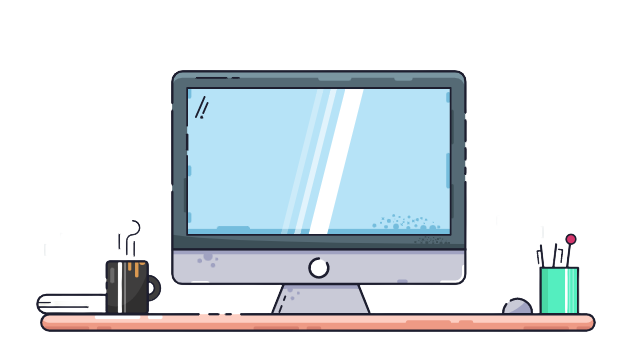
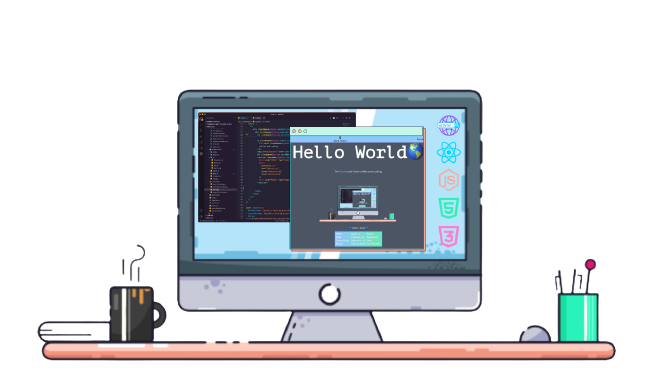
change cover picture, start on adding blog section

Changed region(s): [[0.0303, 0.2023, 0.9682, 0.9827]]

diff --git a/src/Components/Blogs/BlogItem.js b/src/Components/Blogs/BlogItem.js
@@ -1,0 +1,35 @@
+import React from 'react';
+
+const BlogItem = ({ src, title, description }) => {
+  return (
+    <>
+      <div className={styles.mainContainer}>
+        <div className={styles.flexBox}>
+          <div className={styles.cardBox}>
+            <div className={styles.cardInner}>
+              <div className={styles.centerDiv}>
+                <img className={styles.blogImage} src={src} alt="pic" />
+                <h1 className={styles.blogName}>{title}</h1>
+                <p className={styles.blogDescription}>{description}</p>
+              </div>
+            </div>
+          </div>
+        </div>
+      </div>
+    </>
+  );
+};
+
+const styles = {
+  mainContainer: 'container px-5 py-10 mx-auto',
+  cardBox:
+    'flex flex-wrap text-black text-center bg-gradient-to-r from-yellow-300 to-pink-300  px-5 py-5 m-2 rounded border-2 border-black ring-2 ring-yellow-300 dark:ring-pink-400',
+  flexBox: 'flex flex-wrap -m-2',
+  cardInner: 'lg:flex lg:items-center',
+  centerDiv: 'flex flex-wrap justify-center',
+  blogImage: 'h-90 rounded w-full object-cover object-center mb-6',
+  blogName:
+    'font-extrabold text-black font-Pt text-3xl m-2 lg:grid-row-2 text-gray-900 dark:text-white',
+};
+
+export default BlogItem;

diff --git a/src/Components/Blogs/Blogs.js b/src/Components/Blogs/Blogs.js
@@ -1,0 +1,40 @@
+import React from 'react';
+import { blogArray } from './blogData';
+import BlogItem from './BlogItem';
+
+const Blogs = () => {
+  return (
+    <div className={styles.backgroundDiv}>
+      <section className={styles.centerDiv}>
+        <div className={styles.textDiv}>
+          <h1 className={styles.blogTitle}>Here are some of my blogs:</h1>
+          <div className={styles.imageCenter}></div>
+
+          <div class="m-3">
+            {blogArray.map(({ id, src, title, description }) => (
+              <BlogItem
+                key={id}
+                src={src}
+                title={title}
+                description={description}
+              />
+            ))}
+          </div>
+        </div>
+      </section>
+    </div>
+  );
+};
+
+const styles = {
+  backgroundDiv: 'bg-white dark:bg-gray-600',
+  centerDiv:
+    'max-w-6xl mx-auto px-4 sm:px-6 lg:px-4 py-12 bg-white dark:bg-gray-600',
+  textDiv: 'text-center pb-12',
+  blogTitle:
+    'font-bold text-3xl md:text-4xl lg:text-5xl font-heading text-gray-900 dark:text-white font-Poppins',
+  imageCenter: 'flex justify-center',
+  blogImage: 'object-center h-60',
+};
+
+export default Blogs;

diff --git a/src/App.js b/src/App.js
@@ -6,6 +6,7 @@ import Home from './containers/home';
 import ProjectContainer from './containers/projectContainer';
 import AboutContainer from './containers/aboutContainer';
 import ContactContainer from './containers/contactContainer';
+import BlogContainer from './containers/blogContainer';
 import Footer from './Components/UI/Footer';
 import { useTheme } from './darkMode/hooks/useTheme';
 import useThemeStore from './darkMode/stores/useThemeStore';
@@ -46,6 +47,7 @@ function App() {
           <Route exact path="/projects" element={<ProjectContainer />} />
           <Route exact path="/about" element={<AboutContainer />} />
           <Route exact path="/contact" element={<ContactContainer />} />
+          {/* <Route exact path="/blog" element={<BlogContainer />} /> */}
         </Routes>
         <Footer />
       </BrowserRouter>

diff --git a/src/Components/UI/Dropdown.js b/src/Components/UI/Dropdown.js
@@ -23,6 +23,9 @@ const Dropdown = ({ isOpen, toggle }) => {
       <Link className={styles.contactTab} to="/contact">
         Contact
       </Link>
+      {/* <Link className={styles.blogTab} to="/blog">
+        Blog
+      </Link> */}
     </div>
   );
 };
@@ -35,6 +38,8 @@ const styles = {
   resumeTab:
     'p-4 hover:bg-blue-300 dark:hover:bg-blue-300 dark:hover:text-black bg-white dark:bg-gray-500 dark:text-white font-Pt',
   contactTab:
+    'p-4 hover:bg-green-300 dark:hover:bg-green-300 dark:hover:text-black bg-white dark:bg-gray-500 dark:text-white font-Pt',
+  blogTab:
     'p-4 hover:bg-green-300 dark:hover:bg-green-300 dark:hover:text-black bg-white dark:bg-gray-500 dark:text-white font-Pt',
 };
 

diff --git a/src/containers/home.js b/src/containers/home.js
@@ -23,9 +23,12 @@ const Home = () => {
           <h1 className={styles.title}>Hello World🌎</h1>
 
           <p className={styles.subtitle}>
-            I'm <span className={styles.nicoleColor}>Nicole</span> and I love
-            coffee and coding.
+            I'm <span className={styles.nicoleColor}>Nicole</span>. It's so nice
+            to meet you!
           </p>
+
+          {/* <p className={styles.subtitle}>Check Out My Blog:</p>
+          <a href="https://nicsquicktips.hashnode.dev/">Hashnode</a> */}
           <img src={Computer} alt="comp" />
           <h3 className={styles.techNames}>💙 Tech I love 💙</h3>
           <section className={styles.techBox}>

diff --git a/src/Components/About.js b/src/Components/About.js
@@ -10,7 +10,7 @@ const About = () => {
         {/* <img className="hidden" src={social} alt="social" /> */}
         <img className={styles.image_nicole} alt="nicole blonde" src={nic} />
         <div className={styles.text_center}>
-          <h1 className={styles.job_title}>Software Engineer</h1>
+          <h1 className={styles.job_title}>Software Developer</h1>
           <p className={styles.bio}>
             My name is{' '}
             <span className={styles.nicole_title}>Nicole Martin</span>, and I

diff --git a/src/Components/UI/Nav.js b/src/Components/UI/Nav.js
@@ -41,6 +41,9 @@ function Nav({ toggle, toggleTheme }) {
         <Link className={styles.connect} to="/contact">
           Connect
         </Link>
+        {/* <Link className={styles.blog} to="/blogs">
+          Blog
+        </Link> */}
       </div>
     </nav>
   );
@@ -55,6 +58,7 @@ const styles = {
   about: 'p-4 hover:bg-yellow-300',
   resume: 'p-4 hover:bg-blue-300 dark:hover:bg-blue-400',
   connect: 'p-4 hover:bg-green-300',
+  blog: 'p-4 hover:bg-green-300',
 };
 
 export default Nav;

diff --git a/src/Components/Blogs/blogData.js b/src/Components/Blogs/blogData.js
@@ -1,0 +1,14 @@
+export const blogArray = [
+  {
+    id: '1',
+    title: 'How To Stay Current with New Tech Trends ',
+    src: require('../../assets/blog/blog1.png').default,
+    description: 'A list of ways to keep up with the ever-changing tech world',
+  },
+  {
+    id: '1',
+    title: 'How To Stay Current with New Tech Trends ',
+    src: require('../../assets/blog/blog1.png').default,
+    description: 'A list of ways to keep up with the ever-changing tech world',
+  },
+];

diff --git a/src/containers/blogContainer.js b/src/containers/blogContainer.js
@@ -1,0 +1,12 @@
+// import React from 'react';
+// import Blogs from '../Components/Blogs/Blogs';
+
+// const blogContainer = () => {
+//   return (
+//     <div>
+//       <Blogs />
+//     </div>
+//   );
+// };
+
+// export default blogContainer;
